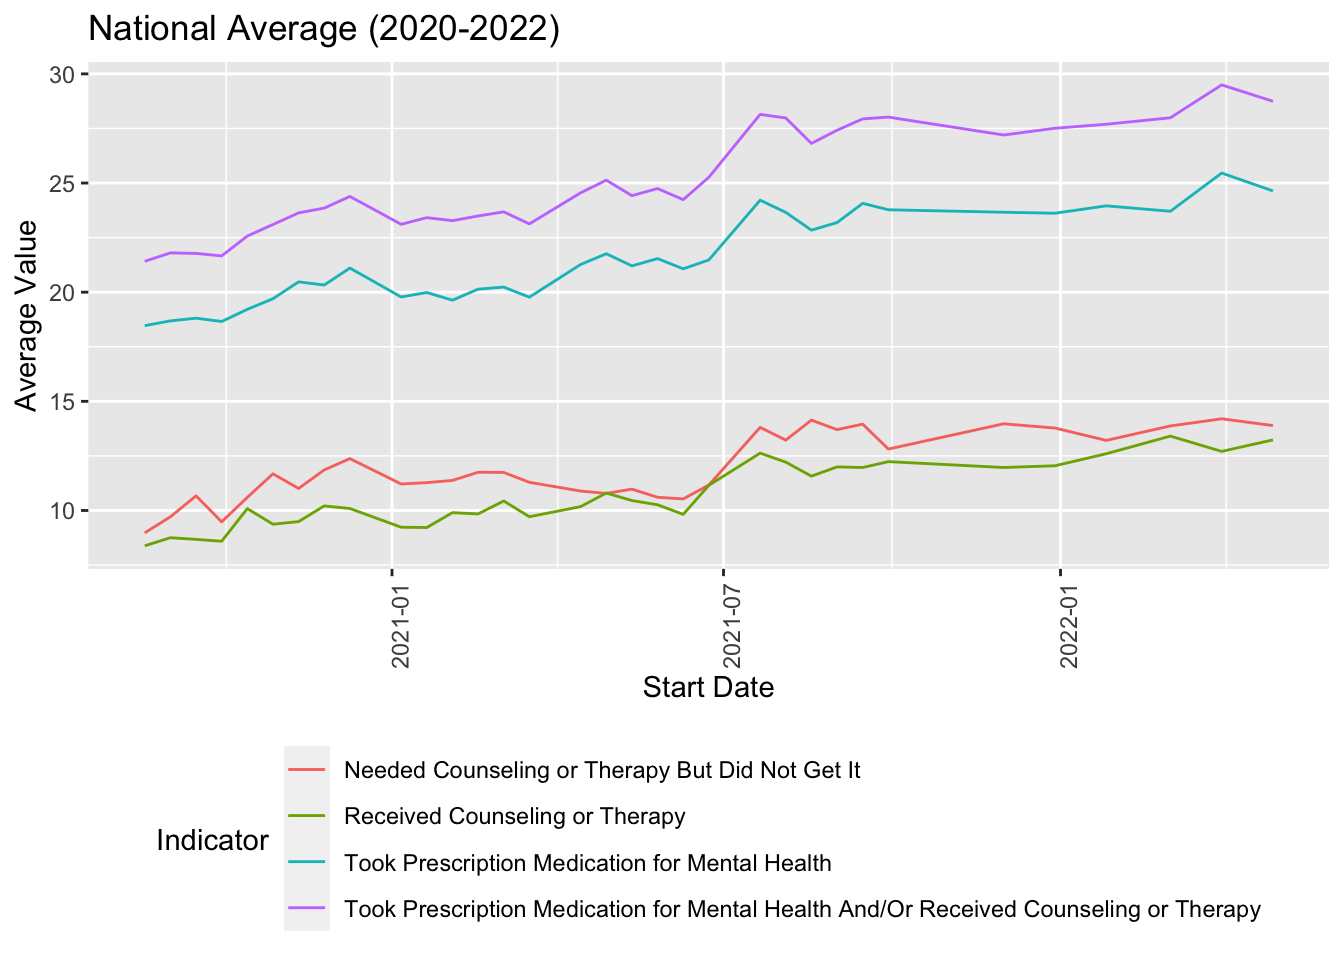
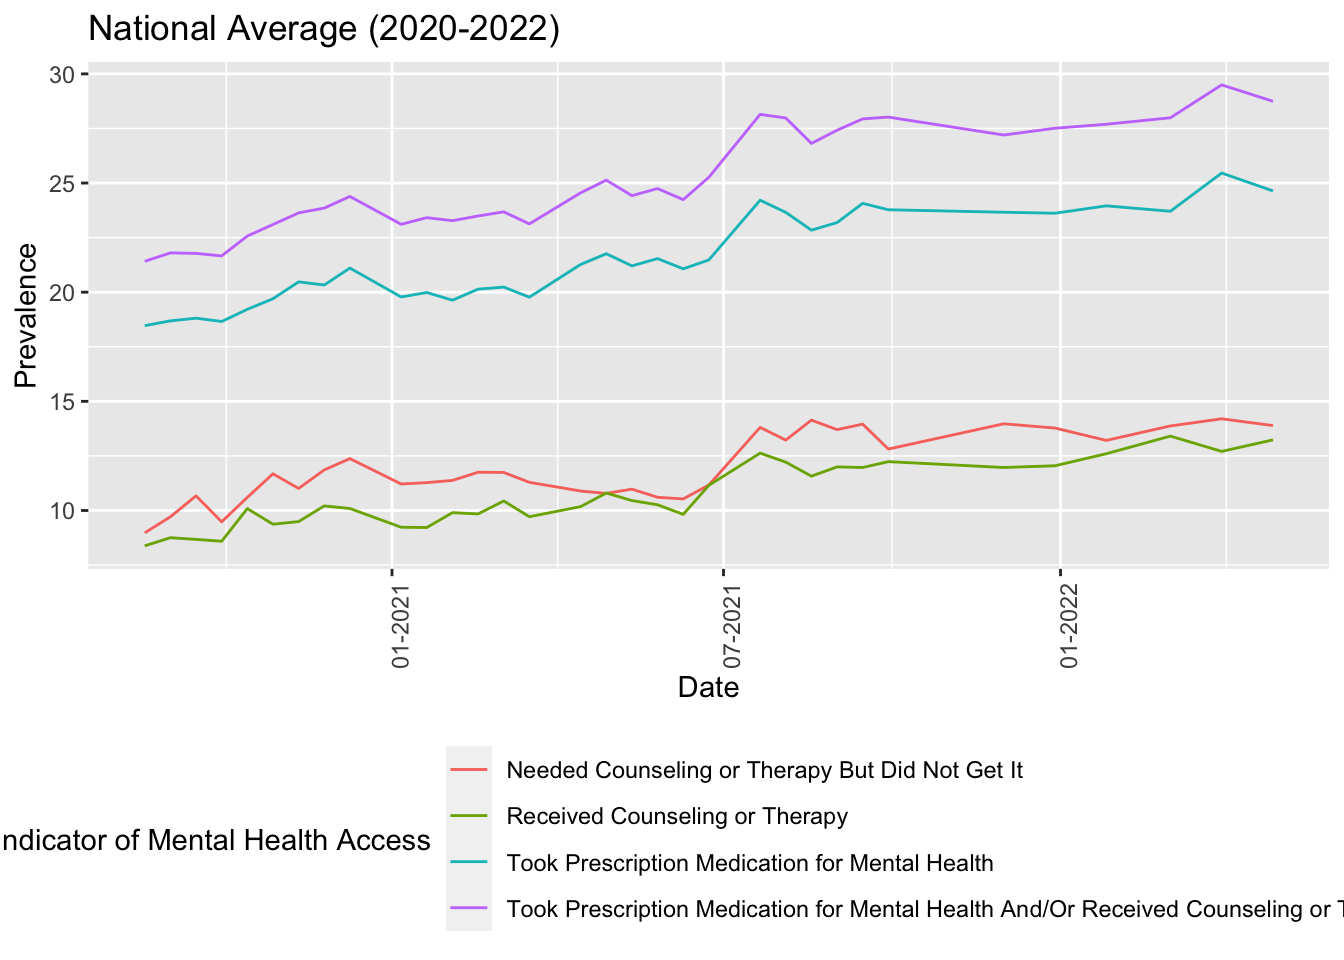
changed colors & date to MM-YYYY like other EDAs

diff --git a/EDA_AR.html b/EDA_AR.html
@@ -385,7 +385,8 @@ div.tocify {
 
 <div id="prevalence" class="section level2">
 <h2>Prevalence</h2>
-<p>Let’s take a look at the prevalence.</p>
+<p>Let’s take a look at the national prevalence of each indicator of
+mental health access.</p>
 <p>First, I filtered by states = United States to look only at national
 data rather then state-specific data. Next, I grouped by year, start
 date, and indicator to ensure I calculate the mean value for each
